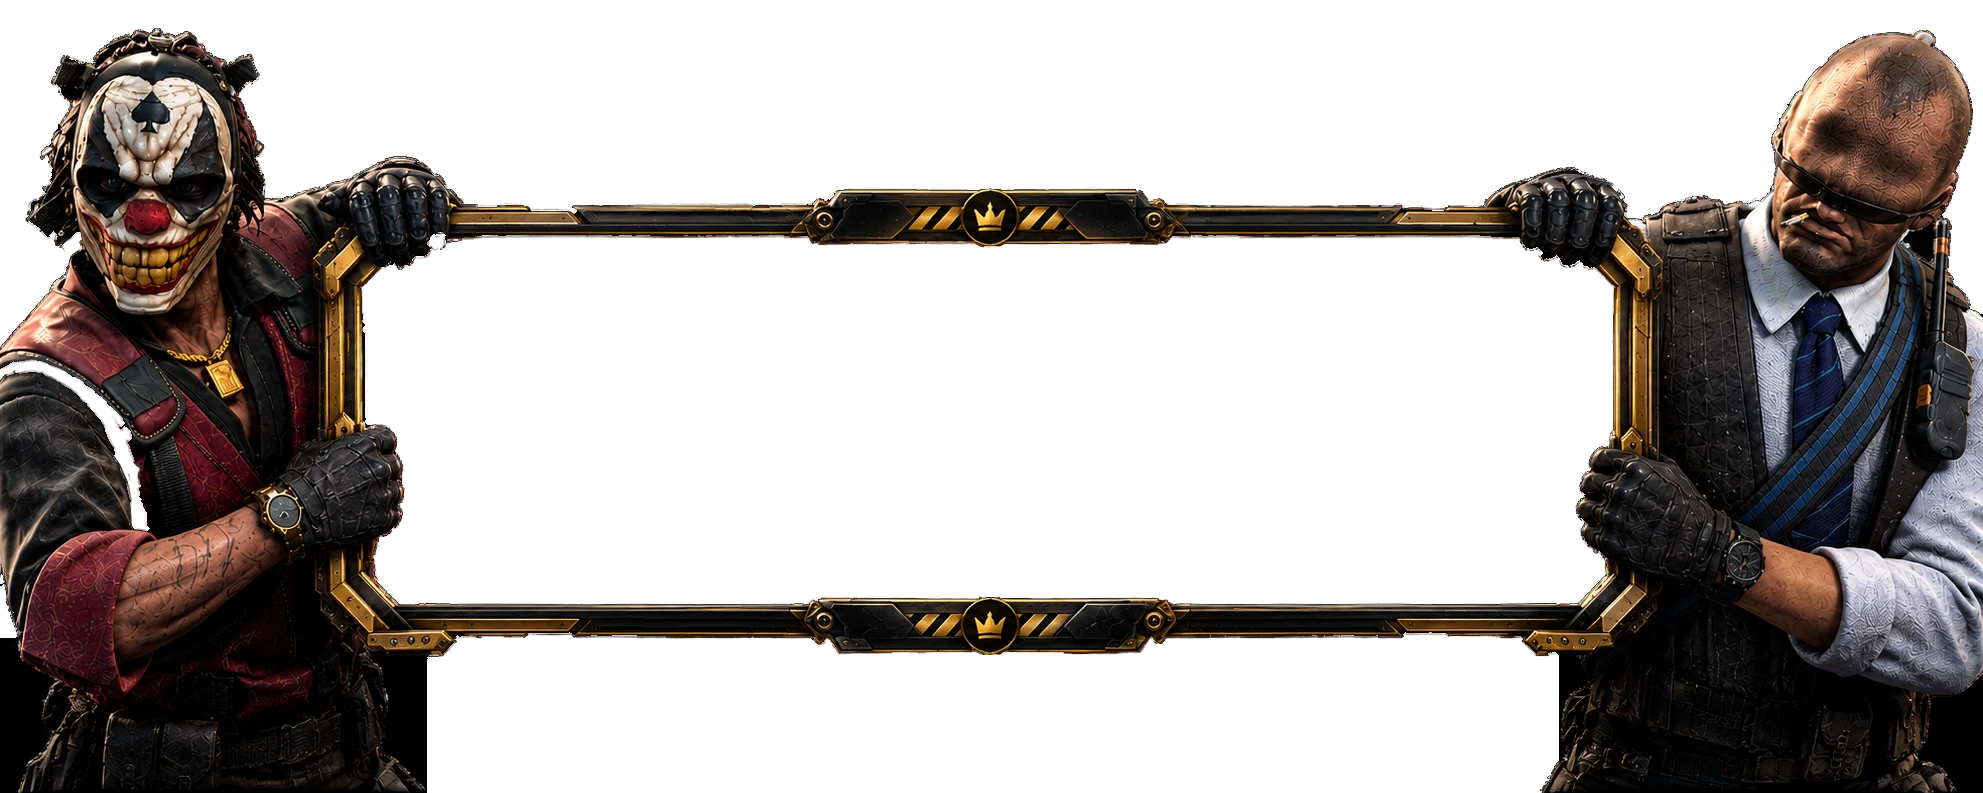
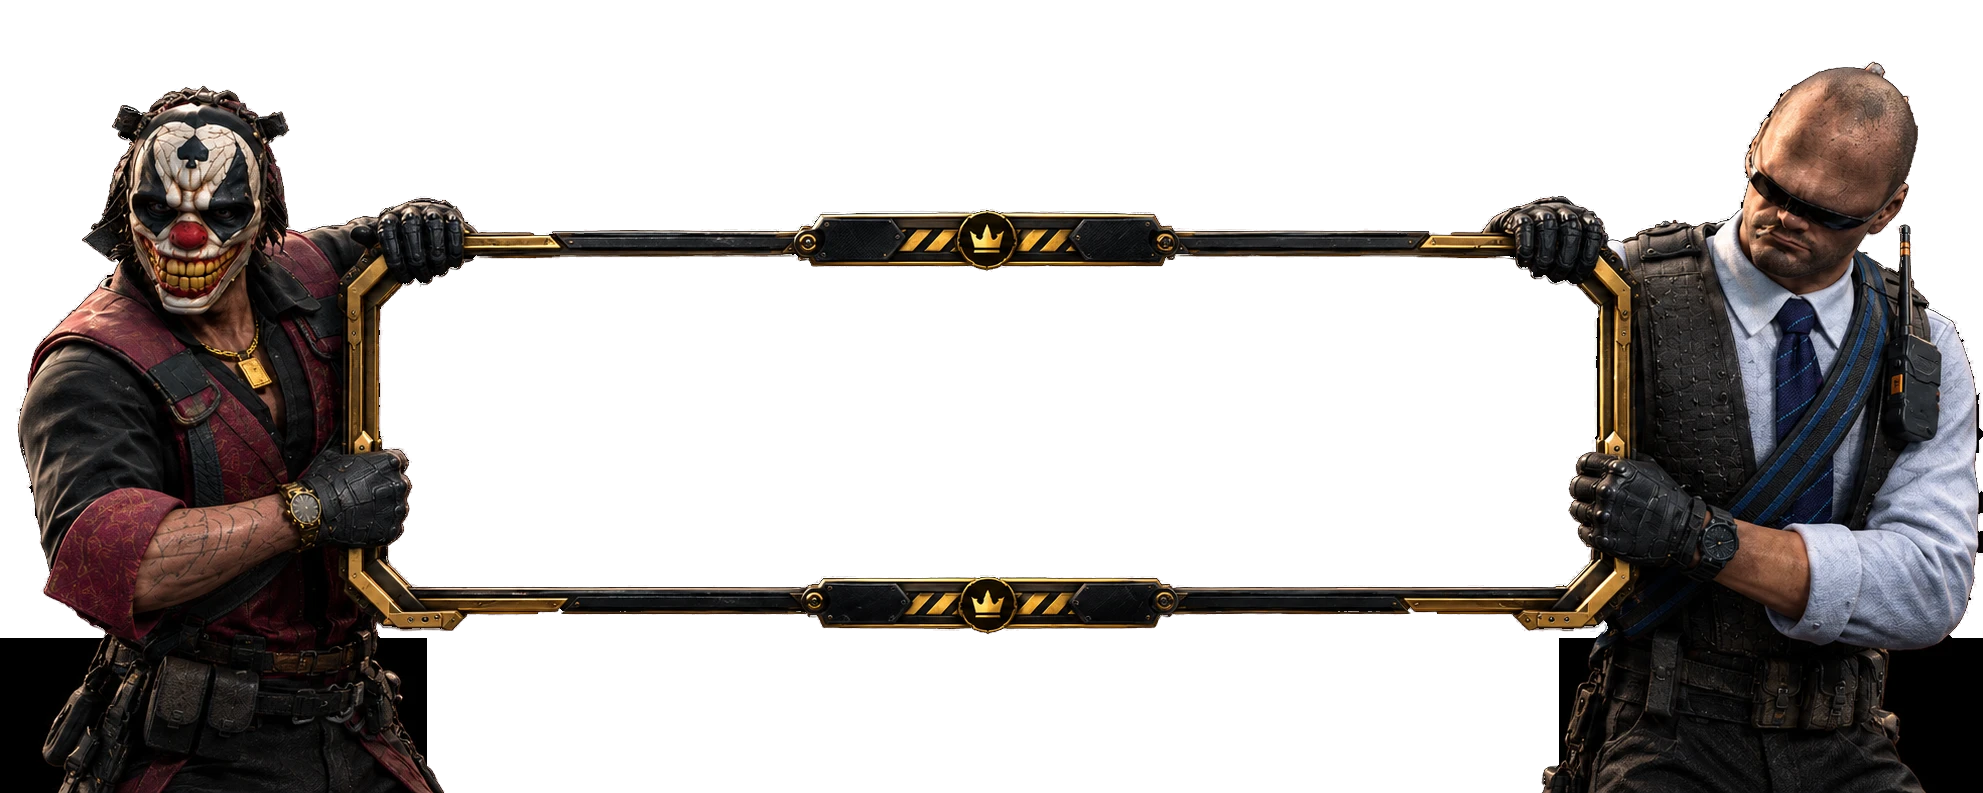
Рамка v3 с персонажами, 4 точки свечения, ленты x1–x7 подгоняются под окно с линиями-разделителями

diff --git a/css/style.css b/css/style.css
@@ -1459,3 +1459,41 @@ p{margin:0}
 .h3-fx{inset:0;border-radius:0}
 .h3-btns{left:9.2%;bottom:8%}
 @media (max-width:720px){.h3-frame{padding:0}.h3-fx{inset:0}.h3-btns{padding:0 16px}}
+
+/* ===== рамка v3: окно 19.2% / 19.6% / 32.4% / 26.1%; ленты подгоняются под окно ===== */
+@media (min-width:1101px){
+  .rl-framed .rl-wrap{left:19.0%;right:19.4%;top:32.2%;bottom:25.9%}
+  .rl-frame-img{
+    -webkit-mask-image:linear-gradient(#000,#000),linear-gradient(to bottom,#000 70%,transparent 82%);
+    mask-image:linear-gradient(#000,#000),linear-gradient(to bottom,#000 70%,transparent 82%);
+    -webkit-mask-size:62% 79%,100% 100%;mask-size:62% 79%,100% 100%}
+  .rl-floor{top:74%;height:14%}
+  .rl-framed .rl{padding:0}
+  .rl-framed .rl-strips{position:absolute;inset:4px 10px;height:auto!important;gap:0;display:flex;flex-direction:column}
+  .rl-framed .rl:not(.spinning) .rl-strips{display:none}
+  /* горизонтальные ленты x1–x5: делят высоту окна поровну, между ними золотые линии */
+  .rl-framed .strip{flex:1 1 0;min-height:0;container-type:size}
+  .rl-framed .strip+.strip{border-top:1px solid rgba(243,193,79,.55);box-shadow:0 -1px 8px -2px rgba(243,193,79,.4)}
+  .rl-framed .track{height:100%;padding:4px 0;box-sizing:border-box;align-items:stretch;gap:6px}
+  .rl-framed .rl .rcard{--cw:auto;--ch:auto;height:100%;width:auto;flex:0 0 auto;aspect-ratio:1.12;padding:0 6% 5%;border-radius:10px}
+  .rl-framed .rl .rcard img{top:7%;width:74%}
+  .rl-framed .rl .rc-w{display:block;font-size:clamp(8px,7.5cqh,11px)}
+  .rl-framed .rl .rc-f{display:block;font-size:clamp(9px,9cqh,14px)}
+  @container (max-height:110px){.rl-framed .rl .rc-w{display:none}}
+  @container (max-height:62px){.rl-framed .rl .rc-f{display:none}.rl-framed .rl .rcard img{top:4%;width:80%}}
+  /* вертикальные барабаны x6–x7: делят ширину окна, между ними вертикальные линии */
+  .rl-framed .rl.vert .rl-strips{flex-direction:row}
+  .rl-framed .strip.v{height:auto;flex:1 1 0;min-width:0;container-type:size}
+  .rl-framed .strip.v+.strip.v{border-top:0;box-shadow:none;border-left:1px solid rgba(243,193,79,.55)}
+  .rl-framed .strip.v .track{height:auto;width:100%;flex-direction:column;padding:0 4px;gap:5px}
+  .rl-framed .rl .strip.v .rcard{height:auto;width:100%;aspect-ratio:1.25;padding:0 6px 5px}
+  .rl-framed .strip.v::after{height:2px}
+  /* четыре точки свечения в углах окна */
+  .rl-spark{position:absolute;z-index:9;width:14px;height:14px;margin:-7px 0 0 -7px;border-radius:50%;pointer-events:none;
+    background:radial-gradient(circle,#fff 0%,#ffe7a3 30%,rgba(255,190,70,.55) 55%,transparent 72%);
+    box-shadow:0 0 14px 5px rgba(255,190,70,.75),0 0 40px 12px rgba(255,160,40,.35);animation:sparkPulse 2.6s ease-in-out infinite}
+  .rl-spark.s1{left:19.6%;top:33.4%}.rl-spark.s2{left:80.1%;top:33.4%;animation-delay:-.65s}
+  .rl-spark.s3{left:19.6%;top:72.8%;animation-delay:-1.3s}.rl-spark.s4{left:80.1%;top:72.8%;animation-delay:-1.95s}
+  @keyframes sparkPulse{0%,100%{transform:scale(.7);opacity:.65}50%{transform:scale(1.25);opacity:1}}
+}
+@media (max-width:1100px){.rl-spark{display:none}}

diff --git a/js/app.js b/js/app.js
@@ -790,7 +790,7 @@ function pageCase(id) {
       <div class="rl-strips" id="strips"></div>
       <div class="rl-marker"></div>
       <div class="rl-reveal" id="reveal"></div>
-    </div></div><img class="rl-frame-img" src="assets/frame-case.png" alt="" draggable="false"></div>
+    </div></div><img class="rl-frame-img" src="assets/frame-case.png" alt="" draggable="false"><i class="rl-spark s1"></i><i class="rl-spark s2"></i><i class="rl-spark s3"></i><i class="rl-spark s4"></i></div>
     <div class="cc" id="cc"></div>
     ${secTitle('Содержимое кейса')}
     <div class="items-grid">${c.items.map(s => itemCard(s)).join('')}</div>
